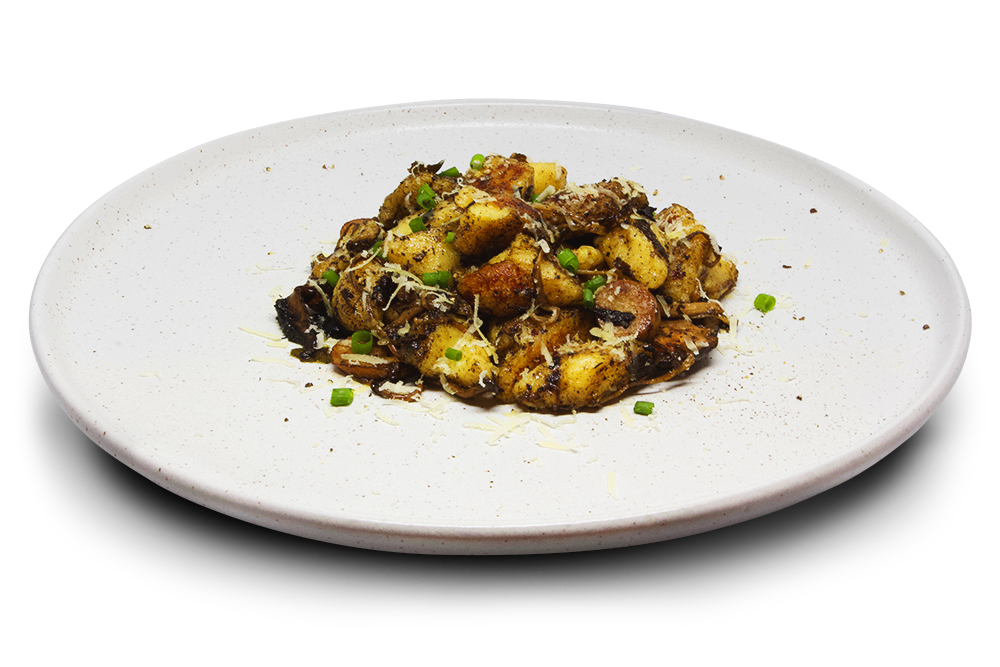
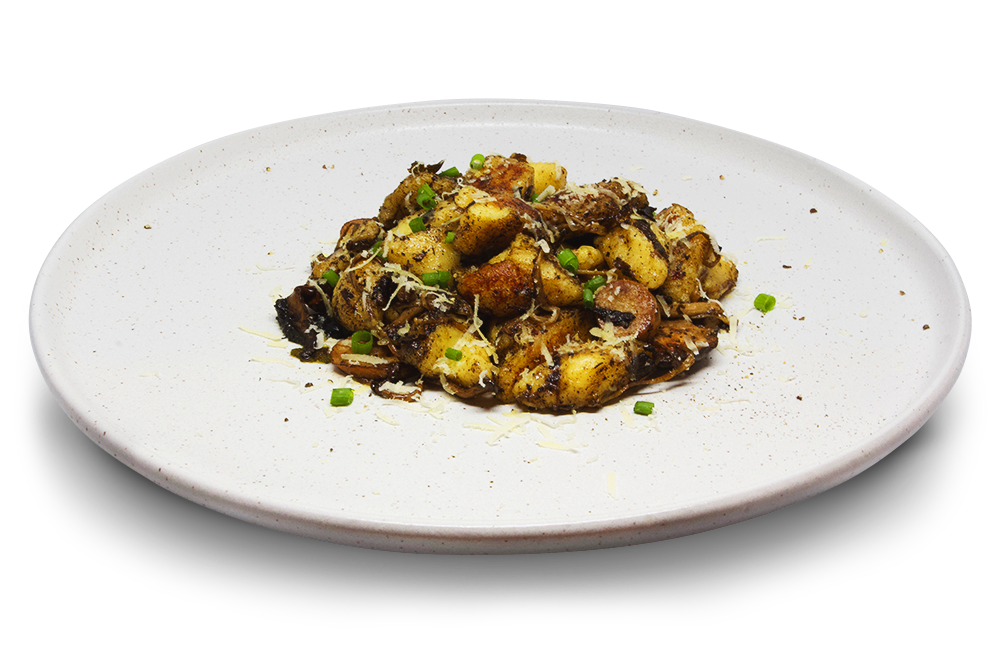
Added new photos, fixed up recipe image scaling

Changed region(s): [[0.093, 0.6597, 0.93, 0.8996]]

diff --git a/source/stylesheets/views/recipes.css.sass b/source/stylesheets/views/recipes.css.sass
@@ -27,21 +27,22 @@
             text-align: center
             max-width: 100%
             padding: 0 20px
+            height: 180px
+            display: flex
+            align-items: center
 
     img
-        right: 0
-        top: 40px
+        right: -40px
+        bottom: -110px
         position: absolute
 
         @media only screen and (max-width: 599px)
-            width: calc(100vw) !important
-            transform: none !important
-            top: 36%
+            width: 400px !important
 
         @media only screen and (max-width: 1023px)
-            width: calc(60vw)
-            top: 48%
-            transform: translate(-24%)
+            width: 510px
+            transform: translate(50%, 0)
+            right: 50%
             
 
 .recipe__intro
@@ -59,14 +60,28 @@
     margin: 0 auto
     padding: 40px 0 140px 0
 
+    @media only screen and (max-width: 1023px)
+        flex-direction: column
+        padding: 0 0 80px 0
+        width: calc(100vw - 80px)
+
 .recipe__ingredients
-    min-width: 420px
     max-width: 440px
+    min-width: 420px
     margin-right: 80px
     margin-left: 40px
 
+    @media only screen and (max-width: 1023px)
+        margin-left: 0
+        margin-right: 0
+        max-width: 100%
+        min-width: auto
+
     h2
         margin-bottom: 40px
+
+        @media only screen and (max-width: 1023px)
+            margin-bottom: 10px
 
     table
         font-size: 16px
@@ -123,8 +138,15 @@
     width: auto
     padding-right: 40px
 
+    @media only screen and (max-width: 1023px)
+        padding-right: 0
+        margin-top: 20px
+
     h2
         margin-bottom: 40px
+
+        @media only screen and (max-width: 1023px)
+            margin-bottom: 10px
 
     ul
         font-size: 16px
@@ -147,10 +169,11 @@
 
 .instagram__info
     margin-top: 30px
-    font-size: 22px
     color: #1E1E1E
     letter-spacing: 0.3px
-    line-height: 33px
+
+    @media only screen and (max-width: 1023px)
+        margin-top: 10px
 
     a
         color: #1E1E1E

diff --git a/source/stylesheets/utility/base.css.sass b/source/stylesheets/utility/base.css.sass
@@ -75,7 +75,7 @@ body
 // As most min-width values will be 320px and the max value often will be the max-width of the container
 // We set "smart" default values
 $responsive-type-min-width: 400px !default
-$responsive-type-max-width: 900px !default
+$responsive-type-max-width: 1000px !default
 
 // Base Responsive resize function that the type one uses
 @mixin responsive-resize($properties, $min-vw, $max-vw, $min-value, $max-value)

diff --git a/source/stylesheets/views/internal.css.sass b/source/stylesheets/views/internal.css.sass
@@ -27,6 +27,9 @@
         p:not(:first-child)
             margin-top: 20px
 
+        h3:first-child
+            margin-top: 0
+
 
 
     .pantry__wrapper
